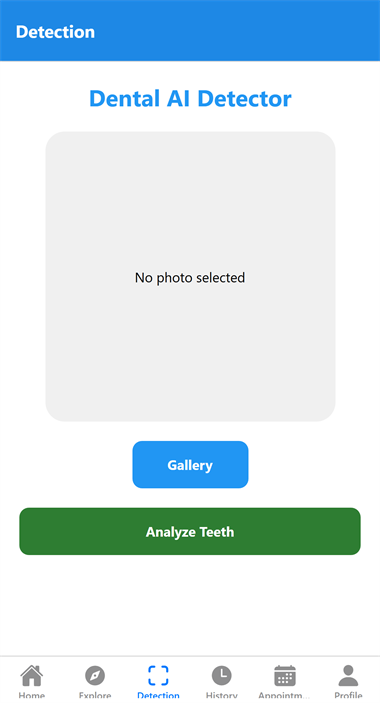
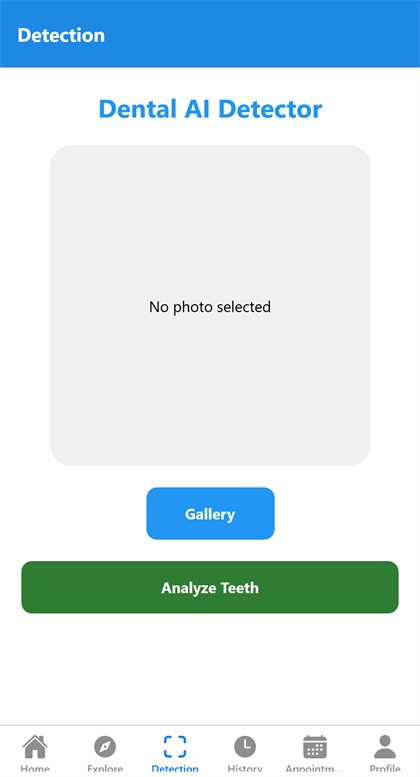
docs: recapture the screenshots and correct the README
Every screenshot is retaken from the running app against a real dental
photo, and two screens the README never showed are added: the scan result
and Explore.

The README claimed an in-app camera the app does not have — detection only
picks from the gallery — and confidence scores the UI never displays. The
project tree still listed the screens removed in the previous commit.

diff --git a/README.md b/README.md
@@ -2,7 +2,7 @@
 
 # 🦷 Dental Disease Detection
 
-**Point your phone at a tooth and get an AI-assisted read on what might be wrong — then book a dentist about it.**
+**Upload a photo of a tooth, get an AI-assisted read on what might be wrong — then book a dentist about it.**
 
 [![Expo](https://img.shields.io/badge/Expo-SDK%2054-000020?logo=expo&logoColor=white)](https://docs.expo.dev/versions/v54.0.0/)
 [![React Native](https://img.shields.io/badge/React%20Native-0.81-61DAFB?logo=react&logoColor=black)](https://reactnative.dev/)
@@ -17,7 +17,7 @@
 
 ## 📌 Overview
 
-**Dental Disease Detection** turns a phone camera into a first-pass dental screening tool. A patient photographs a tooth, the image goes to a vision model, and the app returns the conditions it thinks it can see — each with a confidence score. Every scan is saved to a personal history, and the patient can book a dentist appointment from the same app.
+**Dental Disease Detection** is a first-pass dental screening tool for the phone. A patient uploads a photo of a tooth, the image goes to a vision model, and the app returns the condition it thinks it can see along with what to do about it. Every scan is saved to a personal history, and the patient can book a dentist appointment from the same app.
 
 Built as a **final-year project**, it is a complete system: an Expo/React Native client, a PHP REST API, and an AI layer that runs against either a hosted vision model or your own trained dental model.
 
@@ -27,13 +27,17 @@ Built as a **final-year project**, it is a complete system: an Expo/React Native
 
 ## 📸 Screenshots
 
-| Sign in | Detection | Scan history |
+| Sign in | Detection | Scan result |
 |:---:|:---:|:---:|
-| <img src="docs/screenshots/signin.png" width="230" alt="Sign-in screen with email and password fields" /> | <img src="docs/screenshots/detection.png" width="230" alt="Detection screen offering camera capture or gallery upload before analysis" /> | <img src="docs/screenshots/history.png" width="230" alt="Scan history listing past detections with their dates" /> |
+| <img src="docs/screenshots/signin.png" width="230" alt="Sign-in screen with email and password fields" /> | <img src="docs/screenshots/detection.png" width="230" alt="Detection screen with an empty photo slot, a Gallery button and an Analyze Teeth button" /> | <img src="docs/screenshots/scan-result.png" width="230" alt="Scan result showing the photographed tooth, the diagnosis, advice and recommended dentists" /> |
 
-| Home | Appointments | Profile |
+| Scan history | Appointments | Profile |
 |:---:|:---:|:---:|
-| <img src="docs/screenshots/home.png" width="230" alt="Home tab after signing in" /> | <img src="docs/screenshots/appointments.png" width="230" alt="Appointment list with dentist, clinic, date and time" /> | <img src="docs/screenshots/profile.png" width="230" alt="Profile screen with account details" /> |
+| <img src="docs/screenshots/history.png" width="230" alt="Scan history listing past detections with their images, dates and advice" /> | <img src="docs/screenshots/appointments.png" width="230" alt="Appointment booking with a list of dentists, their specialities and next free slot" /> | <img src="docs/screenshots/profile.png" width="230" alt="Profile screen with account details and an editable form" /> |
+
+| Home | Explore |
+|:---:|:---:|
+| <img src="docs/screenshots/home.png" width="230" alt="Home dashboard with scan count, last scan date and quick actions" /> | <img src="docs/screenshots/explore.png" width="230" alt="Explore screen linking to the scanner and to past records" /> |
 
 ---
 
@@ -41,11 +45,11 @@ Built as a **final-year project**, it is a complete system: an Expo/React Native
 
 | Feature | What it does |
 |---|---|
-| 📷 **Camera scan** | Capture a tooth with the in-app camera, or pick an existing photo |
-| 🧠 **AI detection** | Vision model returns suspected conditions with confidence scores |
-| 📊 **Scan results** | Findings laid out per condition and saved against the account |
+| 🖼 **Photo upload** | Pick a tooth photo from the gallery and send it for analysis |
+| 🧠 **AI detection** | Vision model returns the suspected condition and what to do about it |
+| 📊 **Scan results** | The finding, the advice, and dentists suited to that condition |
 | 🕓 **History** | Every past scan with its image and result, reviewable any time |
-| 📅 **Appointments** | Book, view and manage dentist appointments |
+| 📅 **Appointments** | Book a dentist by speciality and available slot |
 | 👤 **Profile** | Account details, editable, with a change history |
 | 🔐 **Auth** | Email sign-up, sign-in, bearer-token sessions, password recovery |
 
@@ -84,14 +88,13 @@ That third branch matters: with no model configured the app refuses rather than 
 ```
 Dental-Disease-Detection/
 ├── app/                       # Expo Router screens
-│   ├── index.tsx              #   Entry
-│   ├── signin.tsx             #   Sign in
+│   ├── index.tsx              #   Sign in (entry)
 │   ├── signup.tsx             #   Create account
 │   ├── forgot-password.tsx    #   Password recovery
-│   ├── cvscanner.tsx          #   Camera scanner
 │   ├── scan-result.tsx        #   AI findings for one scan
 │   └── (tabs)/
-│       ├── index.tsx          #   Home
+│       ├── home.tsx           #   Dashboard
+│       ├── explore.tsx        #   Services
 │       ├── detection.tsx      #   Start a scan
 │       ├── history.tsx        #   Past scans
 │       ├── appointments.tsx   #   Bookings
@@ -99,7 +102,7 @@ Dental-Disease-Detection/
 ├── services/
 │   ├── BackendService.ts      # API client
 │   └── storage.ts             # Local session storage
-├── components/                # Shared UI
+├── mock-ai-server/            # Stand-in AI server for local development
 ├── backend/                   # PHP REST API
 │   ├── api/
 │   │   ├── auth.php           #   signup · signin · logout
